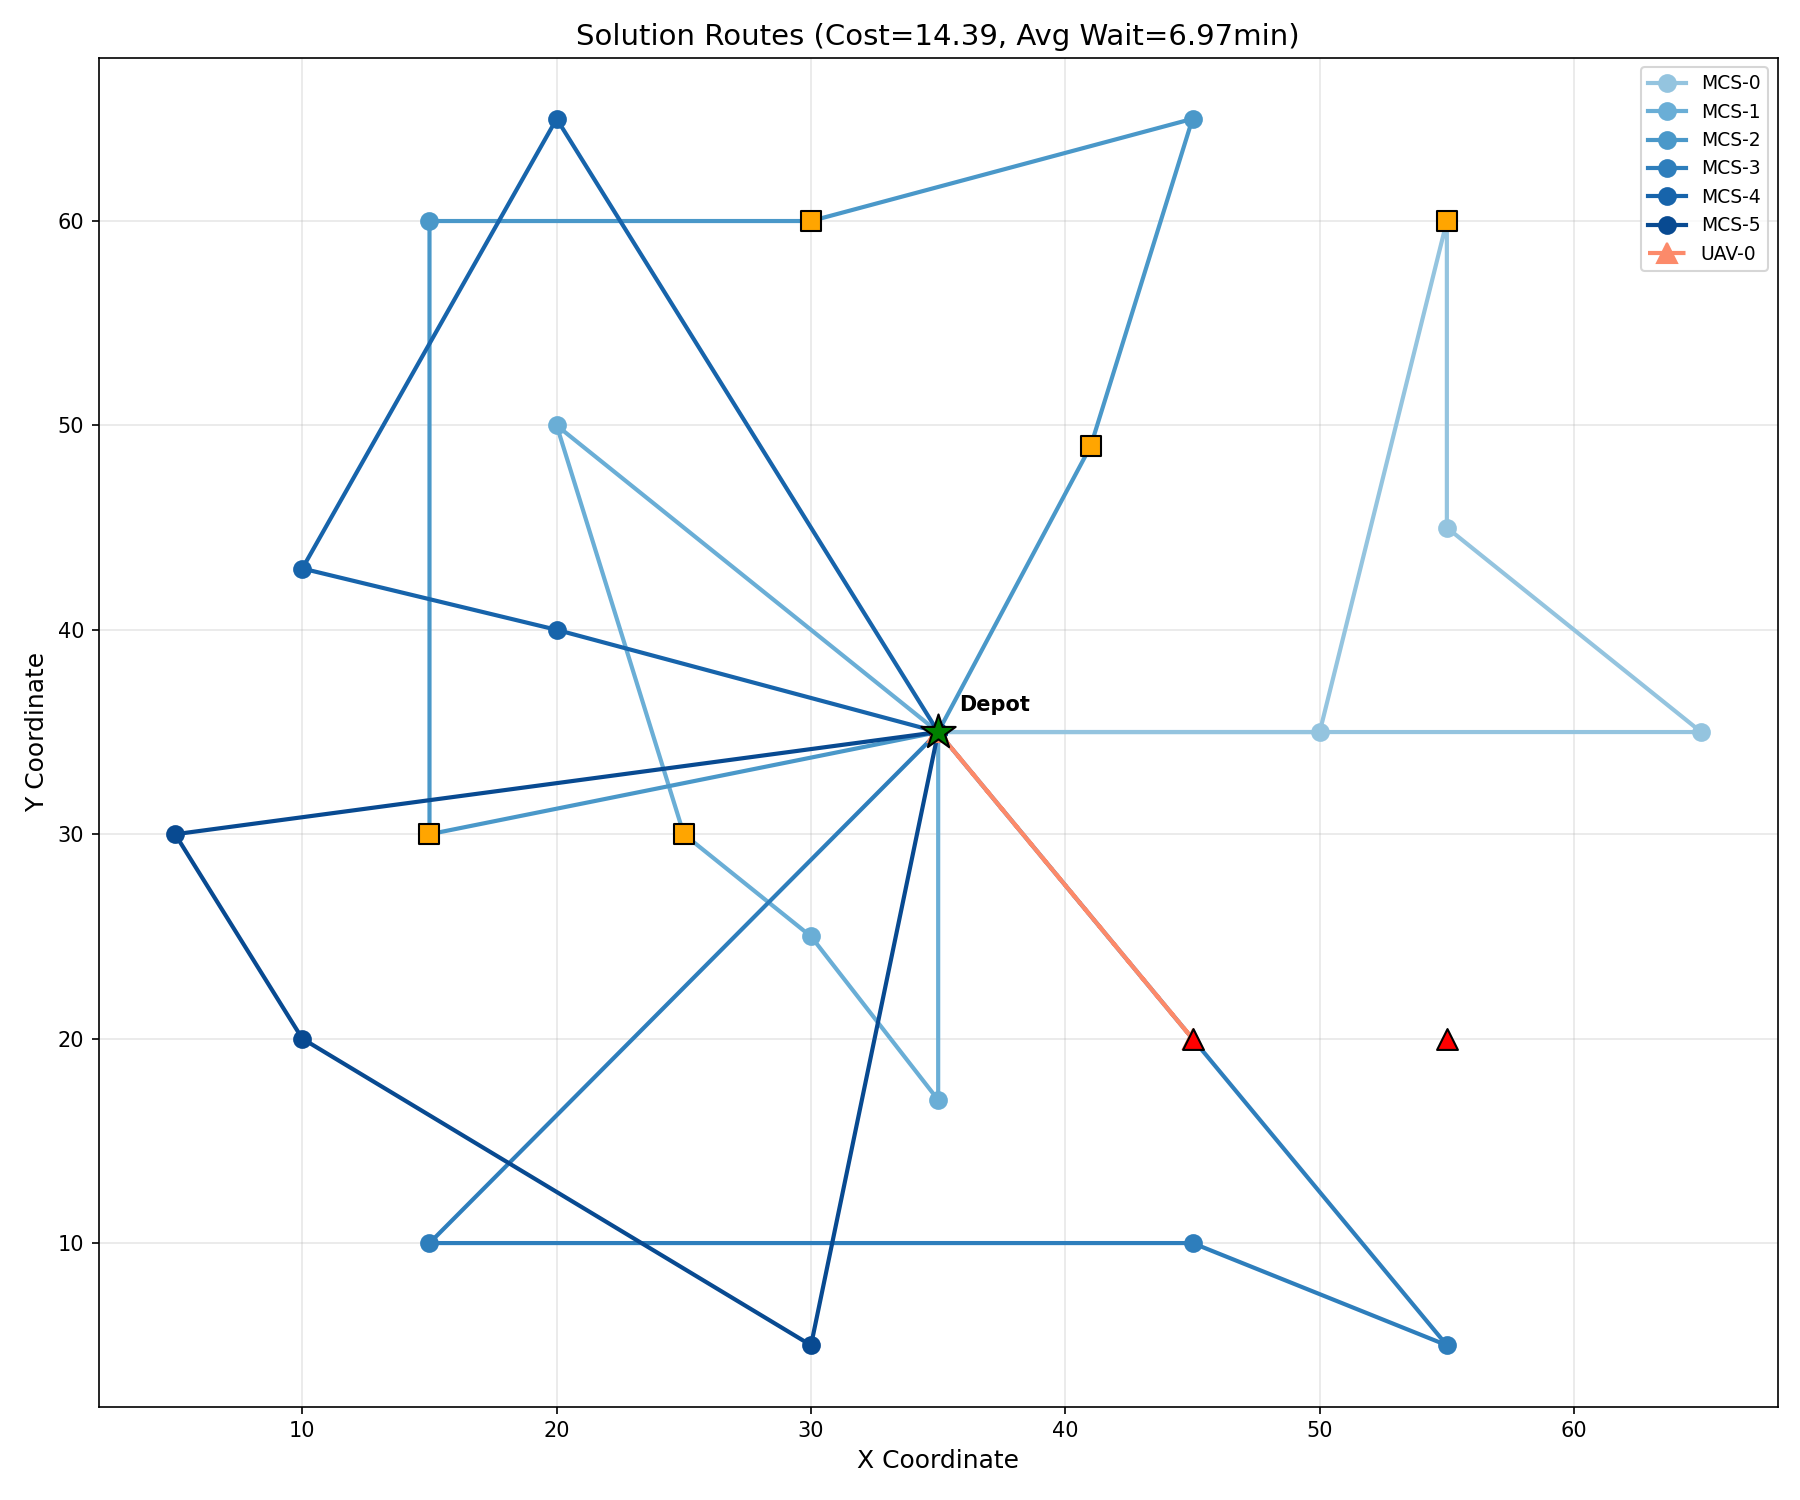
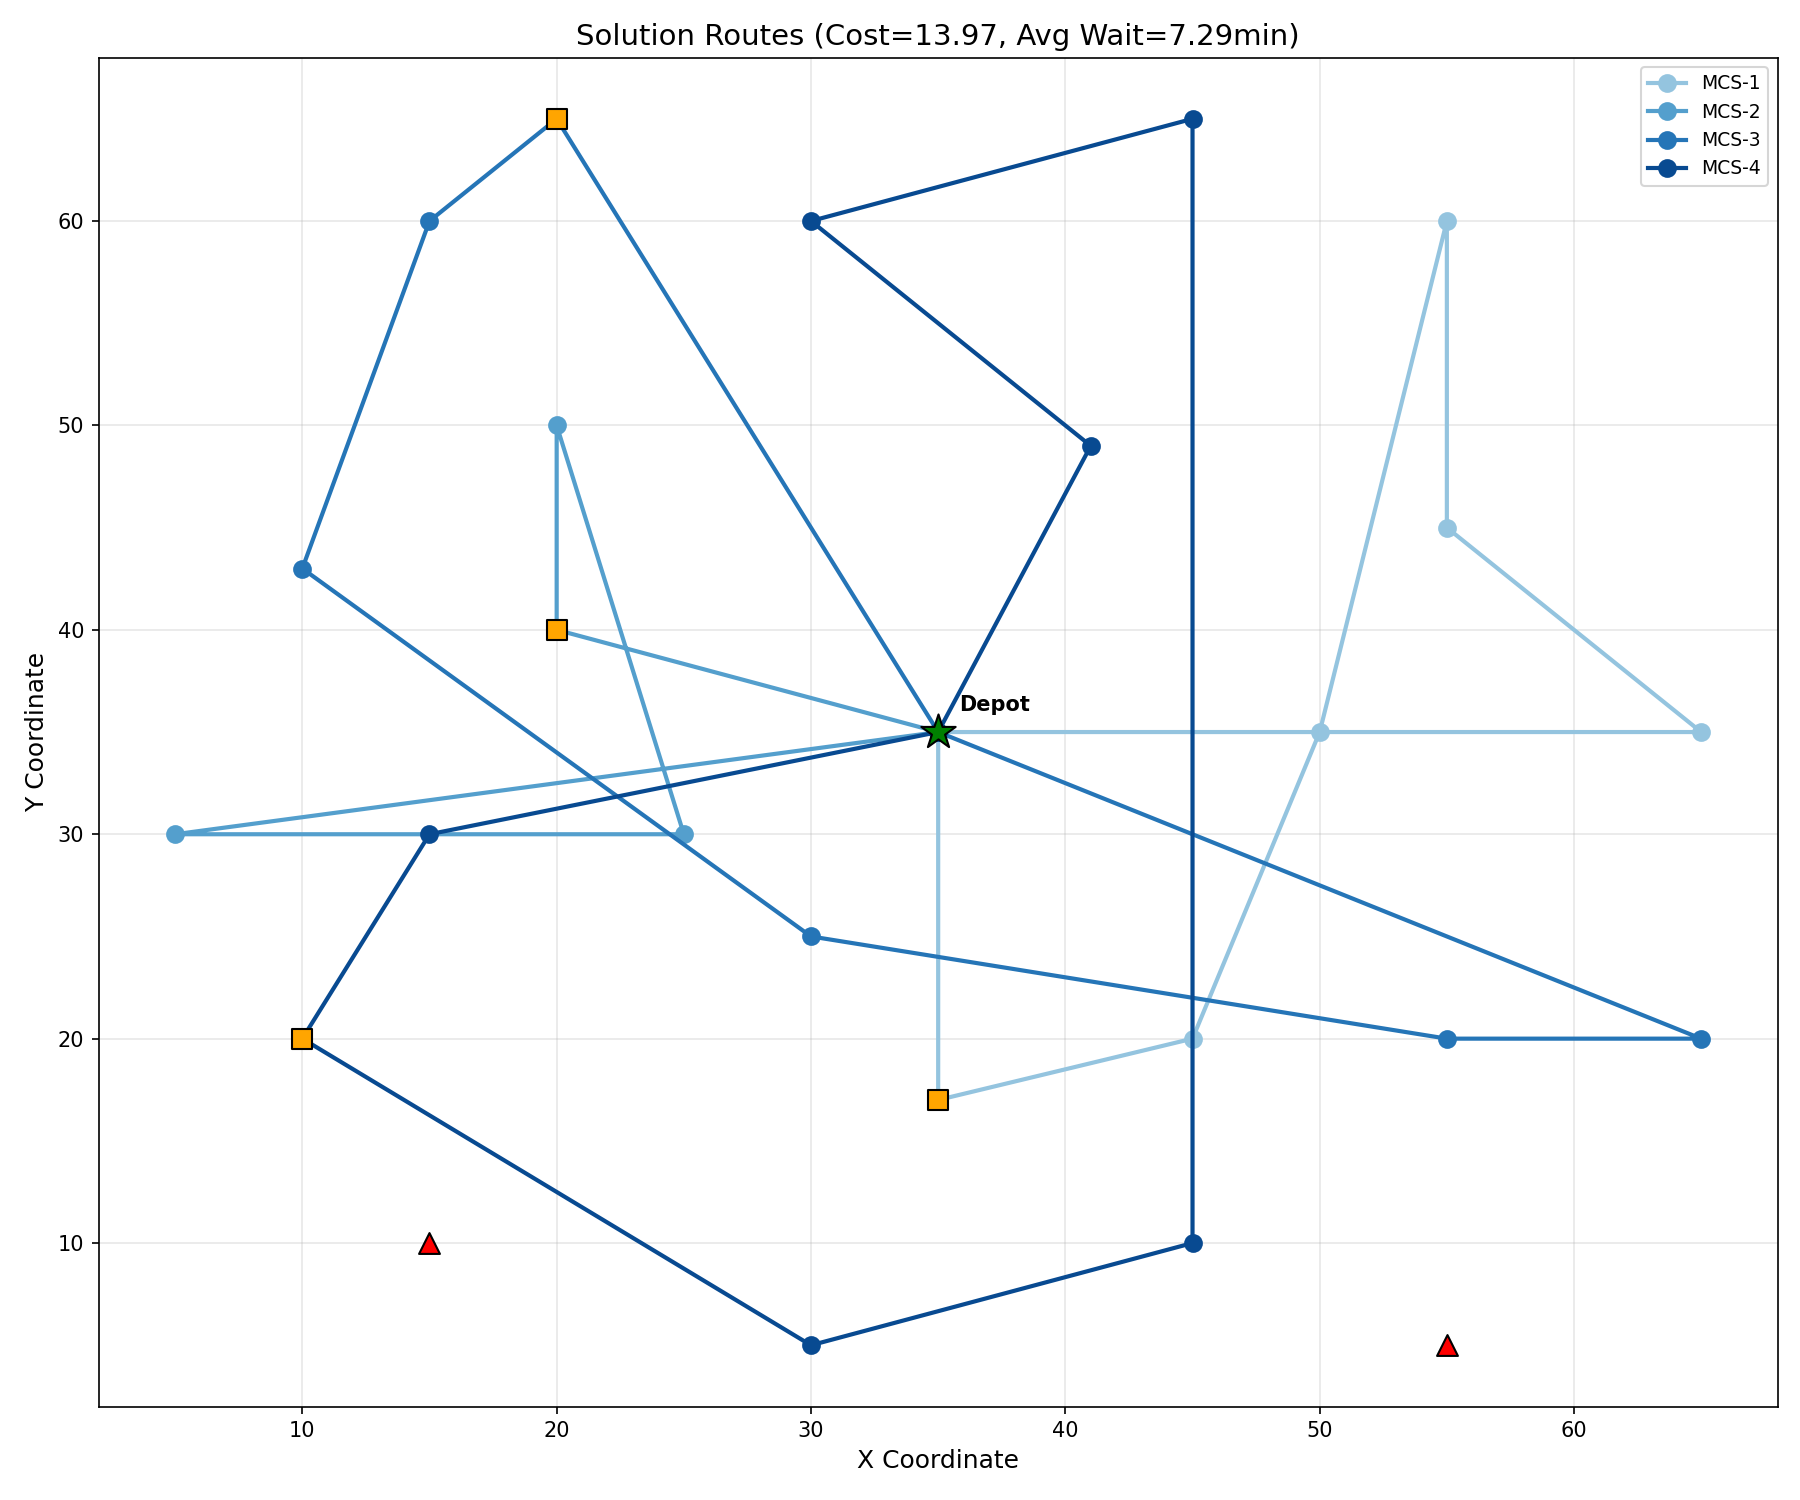
feat: update

diff --git a/main.py b/main.py
@@ -408,6 +408,9 @@ class DistanceMatrix:
         self.n = n
         self.nodes = nodes
         
+        # 建立 node.id -> 列表索引 的映射
+        self.id_to_idx = {node.id: idx for idx, node in enumerate(nodes)}
+        
         # 預計算距離矩陣
         self.manhattan = np.zeros((n, n))  # MCS 使用
         self.euclidean = np.zeros((n, n))  # UAV 使用
@@ -422,10 +425,12 @@ class DistanceMatrix:
     
     def get_distance(self, node1: Node, node2: Node, vehicle: str = 'mcs') -> float:
         """取得兩節點間距離"""
+        idx1 = self.id_to_idx[node1.id]
+        idx2 = self.id_to_idx[node2.id]
         if vehicle == 'mcs':
-            return self.manhattan[node1.id, node2.id]
+            return self.manhattan[idx1, idx2]
         else:
-            return self.euclidean[node1.id, node2.id]
+            return self.euclidean[idx1, idx2]
     
     def get_travel_time(self, node1: Node, node2: Node, vehicle: str, 
                         mcs_speed: float, uav_speed: float) -> float:
@@ -595,7 +600,7 @@ class ALNSSolver:
                 dist_saving = dist_before - dist_after
                 
                 # 等待時間貢獻
-                waiting_cost = route.waiting_times[pos] if pos < len(route.waiting_times) else 0.0
+                waiting_cost = route.mcs_waiting_times[pos] if pos < len(route.mcs_waiting_times) else 0.0
                 
                 # 邊際成本：距離 + 等待 (要移除成本高的)
                 # 注意：這裡用「負的節省」作為成本，所以節省越多的反而成本越低
@@ -715,7 +720,7 @@ class ALNSSolver:
         cfg = self.config
         
         # 空間距離 (使用歐式距離)
-        dist = self.dist_matrix.euclidean[node1.id, node2.id]
+        dist = self.dist_matrix.get_distance(node1, node2, vehicle='uav')
         
         # 時間窗差異
         time_diff = abs(node1.due_date - node2.due_date)
@@ -1753,65 +1758,65 @@ def main():
     # 繪製 Greedy 解路徑
     plot_routes(greedy_solution, problem, save_path='routes_greedy.png')
     
-    # # ==================== Phase 2: ALNS Optimization ====================
-    # print("\n" + "="*80)
-    # print("Phase 2: ALNS Optimization")
-    # print("="*80)
+    # ==================== Phase 2: ALNS Optimization ====================
+    print("\n" + "="*80)
+    print("Phase 2: ALNS Optimization")
+    print("="*80)
     
-    # # 初始化 ALNS 求解器
-    # alns_config = ALNSConfig()
-    # alns = ALNSSolver(problem, config=alns_config, seed=problem.config.RANDOM_SEED)
+    # 初始化 ALNS 求解器
+    alns_config = ALNSConfig()
+    alns = ALNSSolver(problem, config=alns_config, seed=problem.config.RANDOM_SEED)
     
-    # # 執行 ALNS (可調整參數)
-    # best_solution = alns.solve(
-    #     initial_solution=greedy_solution,
-    #     max_iters=1000,       # 迭代次數
-    #     time_limit_sec=120    # 時間限制 (秒)
-    # )
+    # 執行 ALNS (可調整參數)
+    best_solution = alns.solve(
+        initial_solution=greedy_solution,
+        max_iters=1000,       # 迭代次數
+        time_limit_sec=120    # 時間限制 (秒)
+    )
     
-    # # 輸出 ALNS 最佳解摘要
-    # print("\n" + "="*80)
-    # print("ALNS 最佳解")
-    # print("="*80)
-    # best_solution.print_summary()
+    # 輸出 ALNS 最佳解摘要
+    print("\n" + "="*80)
+    print("ALNS 最佳解")
+    print("="*80)
+    best_solution.print_summary()
     
-    # # 繪製 ALNS 最佳解路徑
-    # plot_routes(best_solution, problem, save_path='routes_alns.png')
+    # 繪製 ALNS 最佳解路徑
+    plot_routes(best_solution, problem, save_path='routes_alns.png')
     
-    # # ==================== 比較輸出 ====================
-    # print("\n" + "="*80)
-    # print("Greedy vs ALNS 比較")
-    # print("="*80)
+    # ==================== 比較輸出 ====================
+    print("\n" + "="*80)
+    print("Greedy vs ALNS 比較")
+    print("="*80)
     
-    # print(f"\n{'指標':<20} | {'Greedy':>15} | {'ALNS':>15} | {'改善幅度':>15}")
-    # print("-" * 72)
+    print(f"\n{'指標':<20} | {'Greedy':>15} | {'ALNS':>15} | {'改善幅度':>15}")
+    print("-" * 72)
     
-    # cost_improve = (greedy_cost - best_solution.total_cost) / greedy_cost * 100 if greedy_cost > 0 else 0
-    # print(f"{'總成本':<20} | {greedy_cost:>15.2f} | {best_solution.total_cost:>15.2f} | "
-    #       f"{cost_improve:>14.1f}%")
+    cost_improve = (greedy_cost - best_solution.total_cost) / greedy_cost * 100 if greedy_cost > 0 else 0
+    print(f"{'總成本':<20} | {greedy_cost:>15.2f} | {best_solution.total_cost:>15.2f} | "
+          f"{cost_improve:>14.1f}%")
     
-    # wait_improve = (greedy_avg_wait - best_solution.avg_waiting_time) / greedy_avg_wait * 100 if greedy_avg_wait > 0 else 0
-    # print(f"{'平均等待時間 (min)':<20} | {greedy_avg_wait:>15.2f} | {best_solution.avg_waiting_time:>15.2f} | "
-    #       f"{wait_improve:>14.1f}%")
+    wait_improve = (greedy_avg_wait - best_solution.avg_waiting_time) / greedy_avg_wait * 100 if greedy_avg_wait > 0 else 0
+    print(f"{'平均等待時間 (min)':<20} | {greedy_avg_wait:>15.2f} | {best_solution.avg_waiting_time:>15.2f} | "
+          f"{wait_improve:>14.1f}%")
     
-    # print(f"{'覆蓋率':<20} | {greedy_coverage:>14.1%} | {best_solution.coverage_rate:>14.1%} | "
-    #       f"{(best_solution.coverage_rate - greedy_coverage)*100:>14.1f}%")
+    print(f"{'覆蓋率':<20} | {greedy_coverage:>14.1%} | {best_solution.coverage_rate:>14.1%} | "
+          f"{(best_solution.coverage_rate - greedy_coverage)*100:>14.1f}%")
     
-    # print(f"{'MCS 路徑數':<20} | {greedy_mcs_routes:>15} | {len(best_solution.mcs_routes):>15} | "
-    #       f"{len(best_solution.mcs_routes) - greedy_mcs_routes:>15}")
+    print(f"{'MCS 路徑數':<20} | {greedy_mcs_routes:>15} | {len(best_solution.mcs_routes):>15} | "
+          f"{len(best_solution.mcs_routes) - greedy_mcs_routes:>15}")
     
-    # print(f"{'UAV 路徑數':<20} | {greedy_uav_routes:>15} | {len(best_solution.uav_routes):>15} | "
-    #       f"{len(best_solution.uav_routes) - greedy_uav_routes:>15}")
+    print(f"{'UAV 路徑數':<20} | {greedy_uav_routes:>15} | {len(best_solution.uav_routes):>15} | "
+          f"{len(best_solution.uav_routes) - greedy_uav_routes:>15}")
     
-    # print(f"{'未服務節點數':<20} | {len(greedy_solution.unassigned_nodes):>15} | "
-    #       f"{len(best_solution.unassigned_nodes):>15} | "
-    #       f"{len(greedy_solution.unassigned_nodes) - len(best_solution.unassigned_nodes):>15}")
+    print(f"{'未服務節點數':<20} | {len(greedy_solution.unassigned_nodes):>15} | "
+          f"{len(best_solution.unassigned_nodes):>15} | "
+          f"{len(greedy_solution.unassigned_nodes) - len(best_solution.unassigned_nodes):>15}")
     
-    # print("-" * 72)
-    # print(f"\n圖片已儲存:")
-    # print(f"  - 節點分布圖: node_distribution.png")
-    # print(f"  - Greedy 路徑: routes_greedy.png")
-    # print(f"  - ALNS 路徑: routes_alns.png")
+    print("-" * 72)
+    print(f"\n圖片已儲存:")
+    print(f"  - 節點分布圖: node_distribution.png")
+    print(f"  - Greedy 路徑: routes_greedy.png")
+    print(f"  - ALNS 路徑: routes_alns.png")
 
 
 if __name__ == "__main__":
